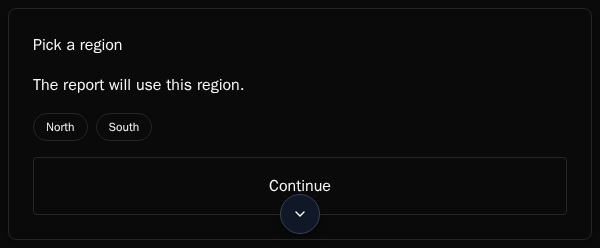
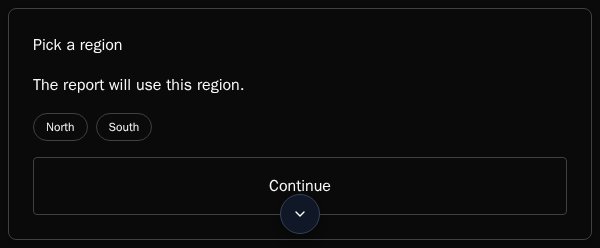
Re-capture the A2UI dark-mode fix with the raised border contrast; measure chip borders

diff --git a/README.md b/README.md
@@ -108,6 +108,8 @@ The same page, built against packages packed from each fix branch:
 | --- | --- | --- | --- |
 | dark | `rgb(10, 10, 10)` | `rgb(250, 250, 250)` | 18.97 : 1 |
 
+Chip and button outlines in dark mode are `rgb(64, 64, 64)` on the card, at 1.91 : 1. Light mode keeps `#ccc` on white, at 1.61 : 1.
+
 | 1.79.1, dark | With the fix, dark |
 | --- | --- |
 | ![before](screenshots/react/1.79.1-en/dark-a2ui-card.png) | ![after](screenshots/react/a2ui-dark-fix-en/dark-a2ui-card.png) |
